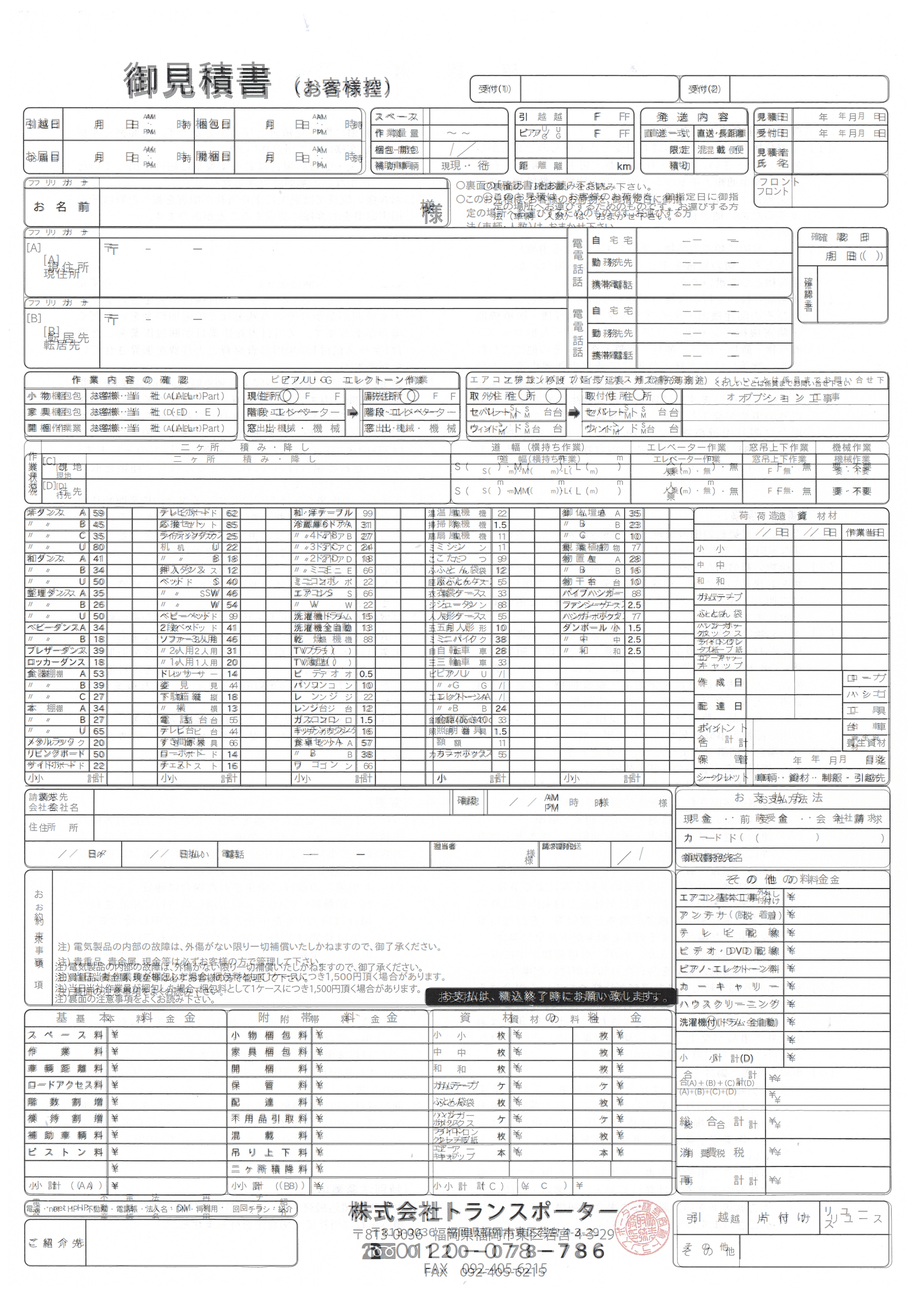
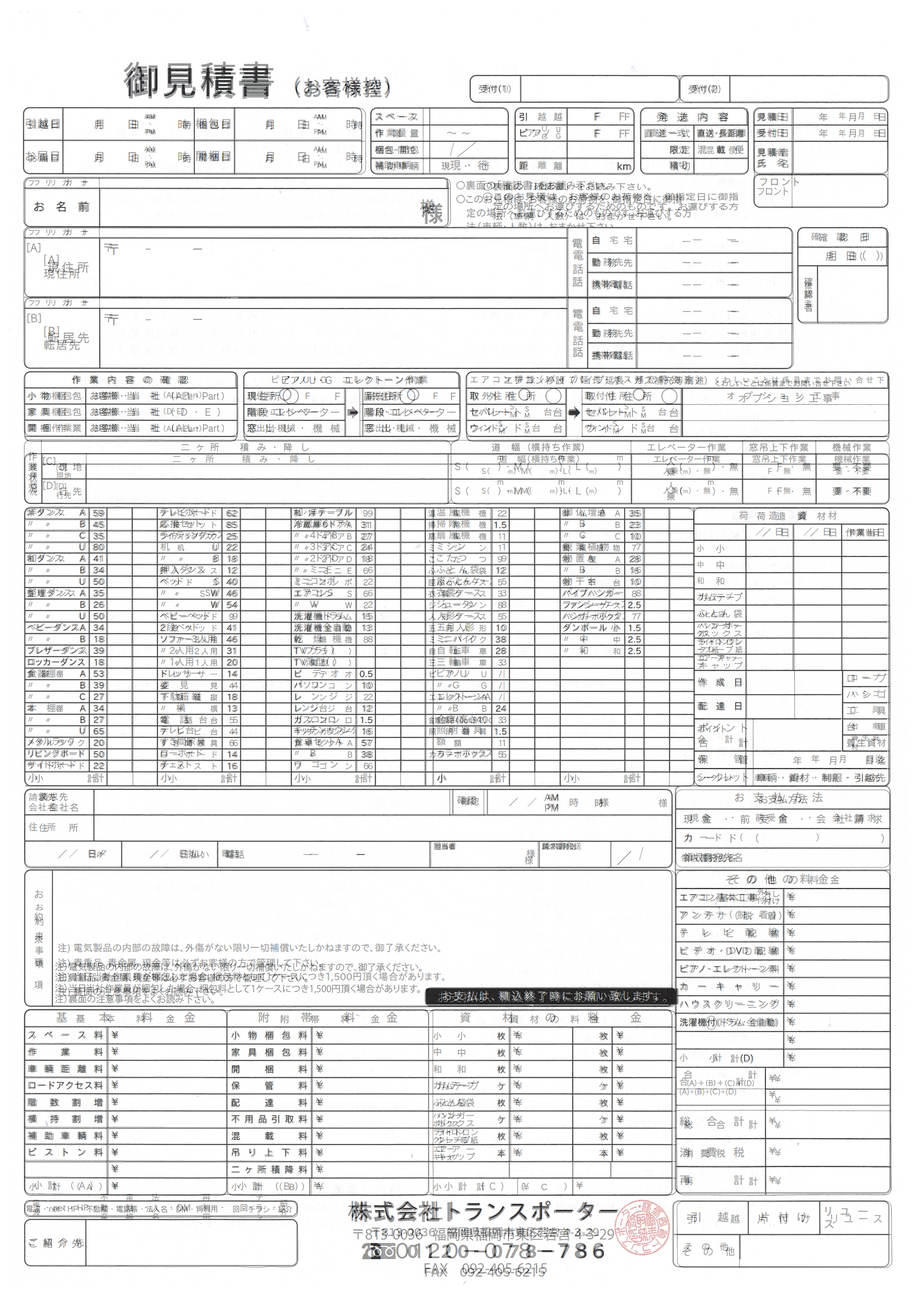
見積書フォームの実測反復改善（総合80.70%）
ブロック別に原本との罫線誤差を実測して詰めた:
- 料金表見出し高さ・作業内容欄の行構成・作業状況の列幅
- 家財表の高さ/媒体欄の高さ/お約束事項の高さ
- タイトル字号 8.8mm、日付プレースホルダの字位置

Raw 90.7 / Gray 90.7 / SSIM 63.3 / Edge 85.6 / Geometry 81.9 → 総合 80.70%

diff --git a/public/estimate-form/index.html b/public/estimate-form/index.html
@@ -29,13 +29,13 @@
   <!-- Block02 日程ほか -->
   <section class="box sched-date"><div class="grid">
     <div class="c ctr lbl">引越日</div>
-    <div class="c"><span class="date-ph"><input class="form-input ctr di" data-field="moveMonth" style="left:8%"><span class="slot" style="left:27%">月</span><input class="form-input ctr di" data-field="moveDay" style="left:33%"><span class="slot" style="left:51%">日</span><span class="slot ampm-v" style="left:66%"><label class="opt" style="padding:0"><input type="radio" name="moveAmPm" value="AM">AM<span class="ring"></span></label><br>・<br><label class="opt" style="padding:0"><input type="radio" name="moveAmPm" value="PM">PM<span class="ring"></span></label></span><input class="form-input ctr di" data-field="moveHour" style="left:74%"><span class="slot" style="left:93%">時</span></span></div>
+    <div class="c"><span class="date-ph"><input class="form-input ctr di" data-field="moveMonth" style="left:8%"><span class="slot" style="left:27%">月</span><input class="form-input ctr di" data-field="moveDay" style="left:33%"><span class="slot" style="left:53%">日</span><span class="slot ampm-v" style="left:67%"><label class="opt" style="padding:0"><input type="radio" name="moveAmPm" value="AM">AM<span class="ring"></span></label><br>・<br><label class="opt" style="padding:0"><input type="radio" name="moveAmPm" value="PM">PM<span class="ring"></span></label></span><input class="form-input ctr di" data-field="moveHour" style="left:74%"><span class="slot" style="left:94%">時</span></span></div>
     <div class="c ctr lbl">梱包日</div>
-    <div class="c last-col"><span class="date-ph"><input class="form-input ctr di" data-field="packMonth" style="left:8%"><span class="slot" style="left:27%">月</span><input class="form-input ctr di" data-field="packDay" style="left:33%"><span class="slot" style="left:51%">日</span><span class="slot ampm-v" style="left:66%"><label class="opt" style="padding:0"><input type="radio" name="packAmPm" value="AM">AM<span class="ring"></span></label><br>・<br><label class="opt" style="padding:0"><input type="radio" name="packAmPm" value="PM">PM<span class="ring"></span></label></span><input class="form-input ctr di" data-field="packHour" style="left:74%"><span class="slot" style="left:93%">時</span></span></div>
+    <div class="c last-col"><span class="date-ph"><input class="form-input ctr di" data-field="packMonth" style="left:8%"><span class="slot" style="left:27%">月</span><input class="form-input ctr di" data-field="packDay" style="left:33%"><span class="slot" style="left:53%">日</span><span class="slot ampm-v" style="left:67%"><label class="opt" style="padding:0"><input type="radio" name="packAmPm" value="AM">AM<span class="ring"></span></label><br>・<br><label class="opt" style="padding:0"><input type="radio" name="packAmPm" value="PM">PM<span class="ring"></span></label></span><input class="form-input ctr di" data-field="packHour" style="left:74%"><span class="slot" style="left:94%">時</span></span></div>
     <div class="c ctr lbl bot">お届日</div>
-    <div class="c bot"><span class="date-ph"><input class="form-input ctr di" data-field="deliverMonth" style="left:8%"><span class="slot" style="left:27%">月</span><input class="form-input ctr di" data-field="deliverDay" style="left:33%"><span class="slot" style="left:51%">日</span><span class="slot ampm-v" style="left:66%"><label class="opt" style="padding:0"><input type="radio" name="deliverAmPm" value="AM">AM<span class="ring"></span></label><br>・<br><label class="opt" style="padding:0"><input type="radio" name="deliverAmPm" value="PM">PM<span class="ring"></span></label></span><input class="form-input ctr di" data-field="deliverHour" style="left:74%"><span class="slot" style="left:93%">時</span></span></div>
+    <div class="c bot"><span class="date-ph"><input class="form-input ctr di" data-field="deliverMonth" style="left:8%"><span class="slot" style="left:27%">月</span><input class="form-input ctr di" data-field="deliverDay" style="left:33%"><span class="slot" style="left:53%">日</span><span class="slot ampm-v" style="left:67%"><label class="opt" style="padding:0"><input type="radio" name="deliverAmPm" value="AM">AM<span class="ring"></span></label><br>・<br><label class="opt" style="padding:0"><input type="radio" name="deliverAmPm" value="PM">PM<span class="ring"></span></label></span><input class="form-input ctr di" data-field="deliverHour" style="left:74%"><span class="slot" style="left:94%">時</span></span></div>
     <div class="c ctr lbl bot">開梱日</div>
-    <div class="c bot last-col"><span class="date-ph"><input class="form-input ctr di" data-field="unpackMonth" style="left:8%"><span class="slot" style="left:27%">月</span><input class="form-input ctr di" data-field="unpackDay" style="left:33%"><span class="slot" style="left:51%">日</span><span class="slot ampm-v" style="left:66%"><label class="opt" style="padding:0"><input type="radio" name="unpackAmPm" value="AM">AM<span class="ring"></span></label><br>・<br><label class="opt" style="padding:0"><input type="radio" name="unpackAmPm" value="PM">PM<span class="ring"></span></label></span><input class="form-input ctr di" data-field="unpackHour" style="left:74%"><span class="slot" style="left:93%">時</span></span></div>
+    <div class="c bot last-col"><span class="date-ph"><input class="form-input ctr di" data-field="unpackMonth" style="left:8%"><span class="slot" style="left:27%">月</span><input class="form-input ctr di" data-field="unpackDay" style="left:33%"><span class="slot" style="left:53%">日</span><span class="slot ampm-v" style="left:67%"><label class="opt" style="padding:0"><input type="radio" name="unpackAmPm" value="AM">AM<span class="ring"></span></label><br>・<br><label class="opt" style="padding:0"><input type="radio" name="unpackAmPm" value="PM">PM<span class="ring"></span></label></span><input class="form-input ctr di" data-field="unpackHour" style="left:74%"><span class="slot" style="left:94%">時</span></span></div>
   </div></section>
 
   <section class="box sched-mid"><div class="grid">

diff --git a/public/estimate-form/css/blocks.css b/public/estimate-form/css/blocks.css
@@ -19,7 +19,7 @@
 .thin-b { border-bottom-width: 0.18mm; }
 
 /* ---- Block01 タイトル・受付 ---- */
-.title { position: absolute; left: 28.0mm; top: 13.75mm; font-size: 8.5mm; font-weight: 700; letter-spacing: 0.12mm; line-height: 1; }
+.title { position: absolute; left: 28.0mm; top: 13.75mm; font-size: 8.8mm; font-weight: 700; letter-spacing: 0.02mm; line-height: 1; }
 .title .copy-kind { position: absolute; left: 38.7mm; top: 3.6mm; font-size: 4.5mm; font-weight: 700; letter-spacing: 0.2mm; white-space: nowrap; }
 .uketsuke1 { left: 107.8mm; top: 17.2mm; width: 48.0mm; height: 6.4mm; }
 .uketsuke2 { left: 155.8mm; top: 17.2mm; width: 48.1mm; height: 6.4mm; }
@@ -72,25 +72,25 @@
 
 /* ---- Block07 作業内容の確認・ピアノ・エアコン ---- */
 .workconf1 { left: 5.5mm; top: 85.3mm; width: 49.1mm; height: 15.95mm; }
-.workconf1 .grid { padding-bottom: 0.62mm; grid-template-columns: 14.1mm 1fr; grid-template-rows: 3.75mm 1fr 1fr 1fr; }
+.workconf1 .grid { padding-bottom: 0.62mm; grid-template-columns: 14.1mm 1fr; grid-template-rows: 3.55mm 3.68mm 3.66mm 1fr; }
 .workconf2 { left: 55.7mm; top: 85.3mm; width: 49.9mm; height: 15.95mm; }
-.workconf2 .grid { padding-bottom: 0.62mm; grid-template-columns: 23.5mm 3.5mm 1fr; grid-template-rows: 3.75mm 1fr 1fr 1fr; }
+.workconf2 .grid { padding-bottom: 0.62mm; grid-template-columns: 23.5mm 3.5mm 1fr; grid-template-rows: 3.55mm 3.68mm 3.66mm 1fr; }
 .workconf3 { left: 106.8mm; top: 85.3mm; width: 97.1mm; height: 15.95mm; }
-.workconf3 .grid { padding-bottom: 0.62mm; grid-template-columns: 22.84mm 3.4mm 23.0mm 1fr; grid-template-rows: 3.75mm 1fr 1fr 1fr; }
+.workconf3 .grid { padding-bottom: 0.62mm; grid-template-columns: 22.84mm 3.4mm 23.0mm 1fr; grid-template-rows: 3.55mm 3.68mm 3.66mm 1fr; }
 .arrow-cell { display: flex; align-items: center; justify-content: center; border-bottom: 0; font-size: 3mm; }
 .opt-cell { grid-row: 1 / 5; border-left: var(--line-w) solid var(--ink); flex-direction: column; justify-content: flex-start; padding-top: 0.6mm; }
 
 /* ---- Block09 作業状況 ---- */
 .workstat { left: 5.5mm; top: 104.1mm; width: 198.4mm; height: 11.4mm; }
 .workstat .grid {
-  grid-template-columns: 3.9mm 10.2mm 83.55mm 41.45mm 25.6mm 16.8mm 1fr;
+  grid-template-columns: 3.9mm 10.2mm 83.1mm 41.9mm 25.6mm 16.8mm 1fr;
   grid-template-rows: 2.23mm 3.55mm 1fr;
 }
 .ws-label { grid-row: 1 / 4; }
 .ws-h2 { grid-column: 2 / 4; }
 
 /* ---- Block10 家財表（本体は app.js が生成） ---- */
-.kazai { left: 5.51mm; top: 116.33mm; width: 198.43mm; height: 63.88mm; border: var(--line-w2) solid var(--ink); border-radius: 1.4mm; background: #fff; position: absolute; }
+.kazai { left: 5.51mm; top: 116.33mm; width: 198.43mm; height: 64.10mm; border: var(--line-w2) solid var(--ink); border-radius: 1.4mm; background: #fff; position: absolute; }
 .kazai-cols { display: grid; position: absolute; left: 0; top: 0; height: 100%; width: 153.25mm;
   /* 列幅は原本の縦罫線位置（実測）から逆算。列3と列4の間に原本どおり幅1.66mmの細い空き列がある */
   grid-template-columns: 14.74mm 4.22mm 5.79mm 5.73mm  14.88mm 4.19mm 5.78mm 5.80mm  14.96mm 4.42mm 5.82mm 5.60mm  1.90mm  13.30mm 4.06mm 5.81mm 5.90mm  14.78mm 4.35mm 5.88mm 5.34mm;
@@ -115,7 +115,7 @@
 .pay .p-row { position: absolute; left: 0; right: 0; border-bottom: var(--line-w) solid var(--ink); display: flex; align-items: center; padding: 0 1mm; overflow: hidden; }
 
 /* ---- Block13 お約束事項 ---- */
-.promise { left: 5.6mm; top: 199.6mm; width: 148.7mm; height: 31.18mm; }
+.promise { left: 5.6mm; top: 199.6mm; width: 148.7mm; height: 31.35mm; }
 .promise .grid { grid-template-columns: 6.3mm 1fr; }
 .notes { font-size: 2.25mm; line-height: 1.5; padding: 0 1mm 1.3mm 1mm; display: flex; flex-direction: column; justify-content: flex-end; }
 .pay-note { position: absolute; left: 91.9mm; top: 27.0mm; width: 57.7mm; height: 3.5mm; background: #111; color: #fff;
@@ -125,7 +125,7 @@
 .fees-a { left: 5.5mm; top: 231.64mm; width: 46.7mm; height: 42.68mm; }
 .fees-b { left: 52.2mm; top: 231.64mm; width: 46.3mm; height: 42.68mm; border-left: 0; }
 .fees-c { left: 98.5mm; top: 231.64mm; width: 55.8mm; height: 42.68mm; border-left: 0; }
-.fee-hd { height: 3.72mm; display: flex; align-items: center; justify-content: center; font-weight: 400; letter-spacing: 2.2mm; font-size: 2.7mm; border-bottom: var(--line-w) solid var(--ink); text-indent: 2.2mm; }
+.fee-hd { height: 3.90mm; display: flex; align-items: center; justify-content: center; font-weight: 400; letter-spacing: 2.2mm; font-size: 2.7mm; border-bottom: var(--line-w) solid var(--ink); text-indent: 2.2mm; }
 .fee-row { height: var(--fee-row); display: flex; border-bottom: var(--line-w) solid var(--ink); font-size: 2.35mm; }
 .fee-row:last-child { border-bottom: 0; }
 .fee-row .fl { display: flex; align-items: center; padding: 0 0.8mm; border-right: var(--line-w) solid var(--ink); overflow: hidden; }
@@ -133,7 +133,7 @@
 .yen { font-size: 2.4mm; margin-right: 0.5mm; }
 
 /* ---- Block16 フッター ---- */
-.media-box { left: 5.5mm; top: 275.4mm; width: 62.7mm; height: 3.64mm; }
+.media-box { left: 5.5mm; top: 275.4mm; width: 62.7mm; height: 3.82mm; }
 .refbox { left: 5.5mm; top: 279.62mm; width: 62.7mm; height: 10.88mm; }
 .refbox .grid { grid-template-columns: 14.1mm 1fr; }
 .media-box .m1 { height: 100%; display: flex; align-items: center; padding: 0 0.8mm; font-size: 1.95mm; }
